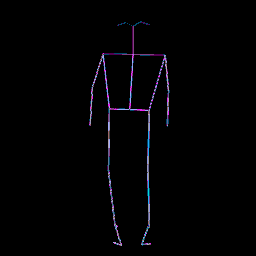
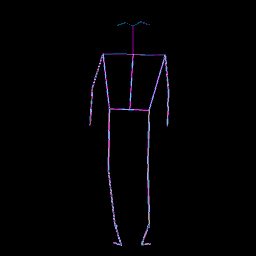
debug

diff --git a/DataSet.py b/DataSet.py
@@ -33,7 +33,7 @@ class BaseDataSet(dataset.Dataset):
         if 'resize' in self.config:
             old_size, _ = images[0].size
             size = [self.config['resize'], self.config['resize']]
-            resize = transforms.Resize(size, Image.NEAREST)
+            resize = transforms.Resize(size, Image.BILINEAR)
             for i in range(len(images)):
                 images[i] = resize(images[i])
 
@@ -97,7 +97,7 @@ class ReconstructDataSet(BaseDataSet):
         if 'resize' in self.config:
             old_size, _ = images[0].size
             size = [self.config['resize'], self.config['resize']]
-            resize = transforms.Resize(size, Image.NEAREST)
+            resize = transforms.Resize(size, Image.BILINEAR)
 
             if self.to_crop == True:
                 coin = random.randint(1, 2)
@@ -345,7 +345,7 @@ class OriginalReconstructDataSet(BaseDataSet):
         if 'resize' in self.config:
             old_size, _ = images[0].size
             size = [self.config['resize'], self.config['resize']]
-            resize = transforms.Resize(size, Image.NEAREST)
+            resize = transforms.Resize(size, Image.BILINEAR)
 
             for i in range(len(images)):
                 this_im = images[i]
@@ -548,7 +548,7 @@ class TransferDataSet(BaseDataSet):
         if 'resize' in self.config:
             old_size, _ = images[0].size
             size = [self.size, self.size]
-            resize = transforms.Resize(size, Image.NEAREST)
+            resize = transforms.Resize(size, Image.BILINEAR)
 
             for i in range(len(images)):
                 this_im = images[i]
@@ -839,7 +839,7 @@ class ValidationTransferDataSet(BaseDataSet):
         if 'resize' in self.config:
             old_size, _ = images[0].size
             size = [self.config['resize'], self.config['resize']]
-            resize = transforms.Resize(size, Image.NEAREST)
+            resize = transforms.Resize(size, Image.BILINEAR)
             for i in range(len(images)):
                 images[i] = resize(images[i])
 

diff --git a/finetune.py b/finetune.py
@@ -177,8 +177,8 @@ def inference(model, config, device_idxs=[0]):
 
                 print (class_body_full)
                 print (class_body_full.shape)
-                cv2.imwrite('full_class_bodydebug_256.png', class_body_full)
-                cv2.imwrite('full_class_bodydebugsmall_256.png', class_body_resize)
+                cv2.imwrite('full_class_bodydebug.png', class_body_full)
+                cv2.imwrite('full_class_bodydebugsmall.png', class_body_resize)
                 print ('saving')
                 exit()
                 fake_image = np.clip(fake_image.cpu().numpy(), 0, 1)
